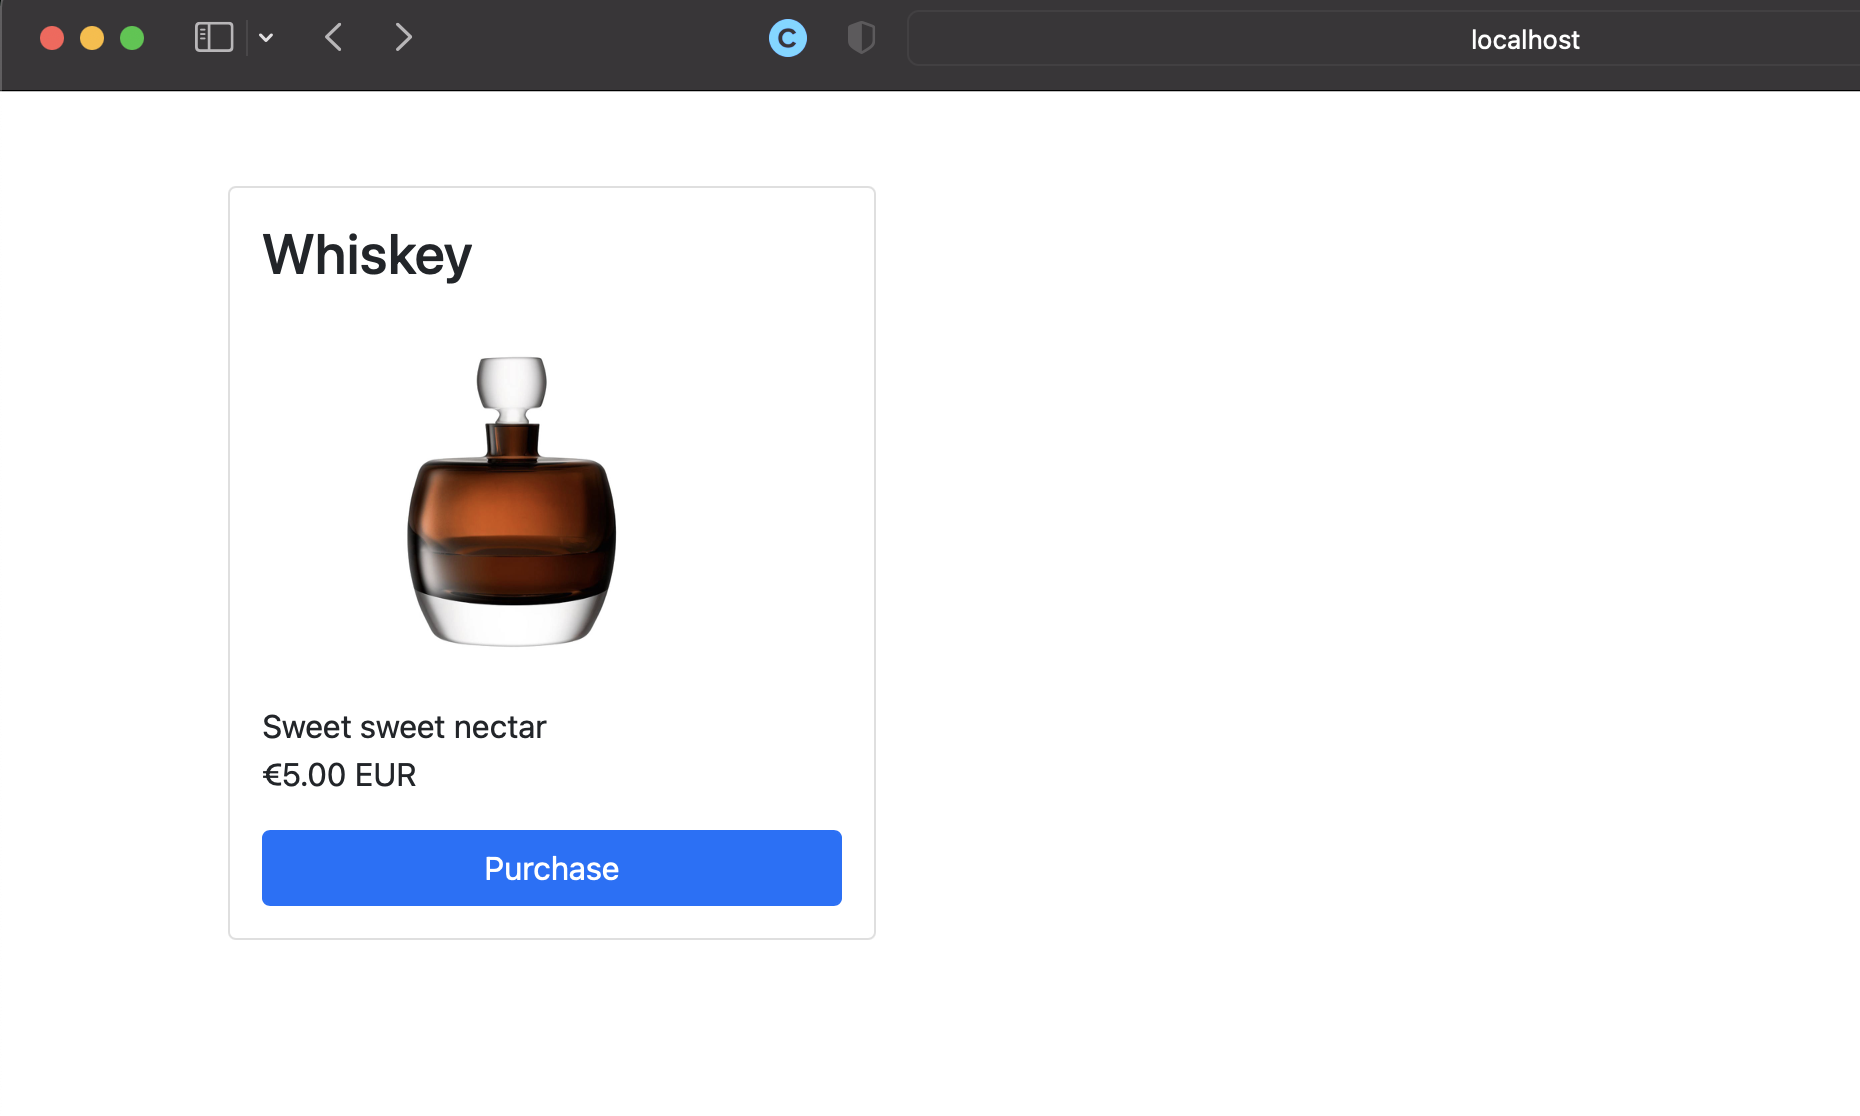
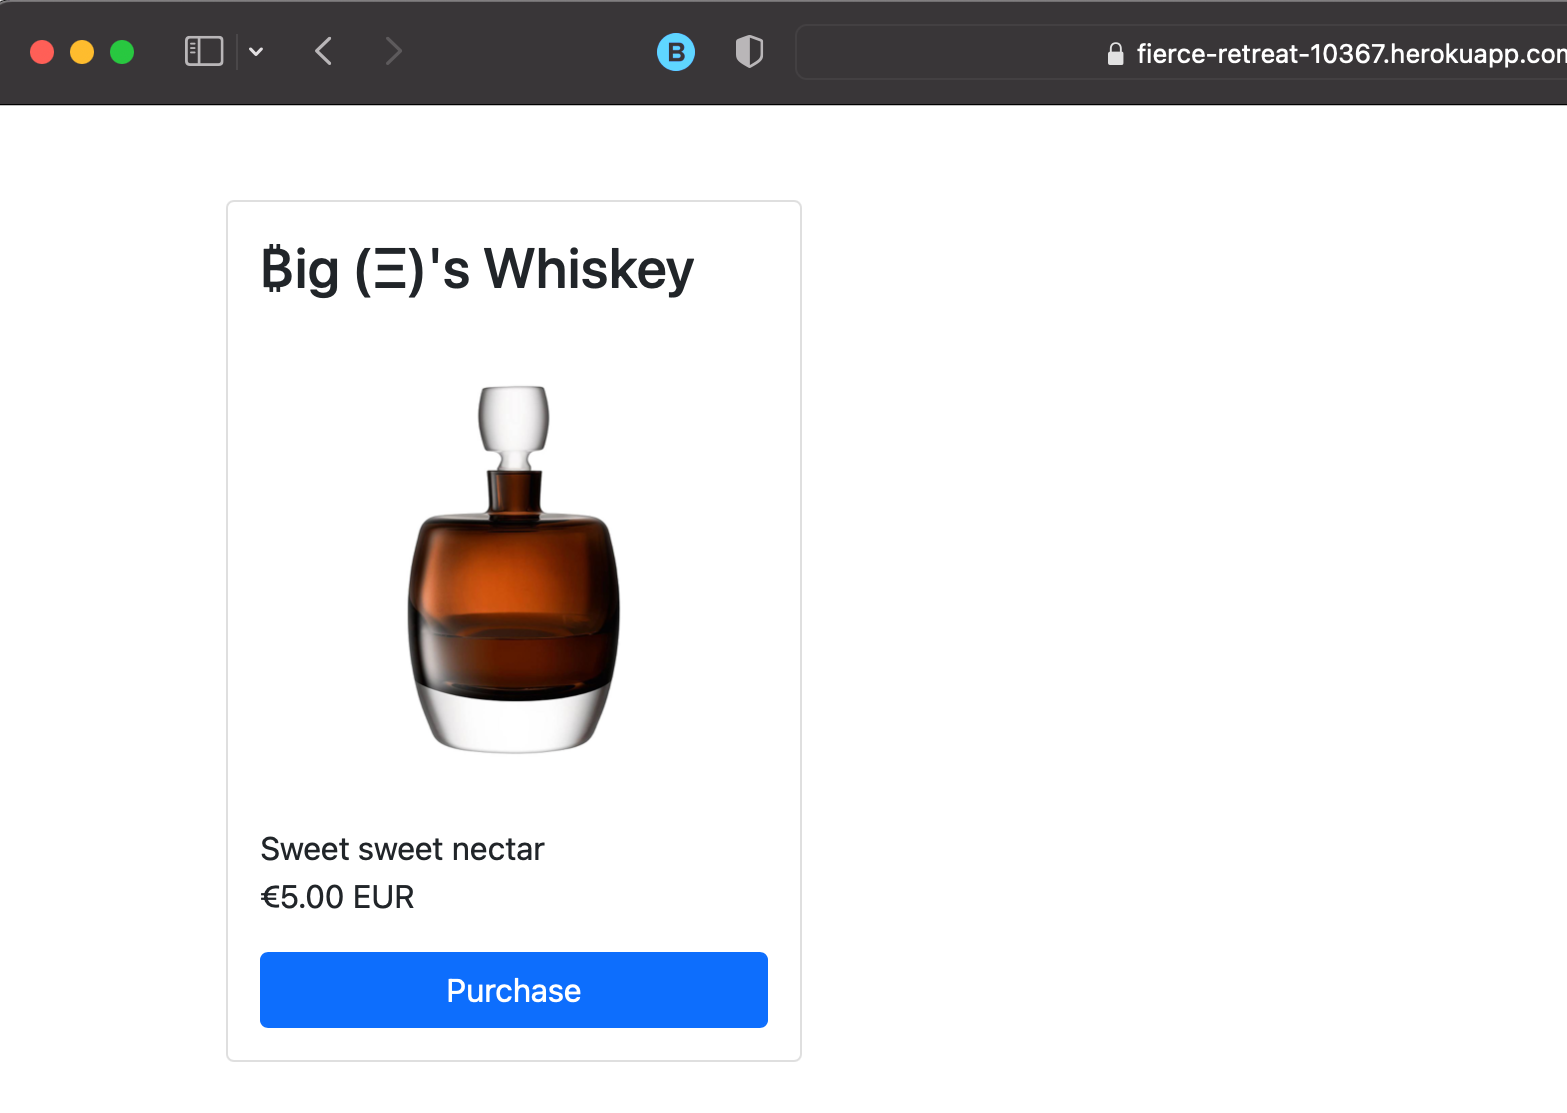
added: code review (formating and imports)

diff --git a/app/core/settings.py b/app/core/settings.py
@@ -10,11 +10,11 @@ For the full list of settings and their values, see
 https://docs.djangoproject.com/en/3.2/ref/settings/
 """
 import os
-# import environ
-# from pathlib import Path
 
-COINBASE_COMMERCE_API_KEY = os.environ.get('COINBASE_API_KEY')
-COINBASE_COMMERCE_WEBHOOK_SHARED_SECRET = os.environ.get('COINBASE_COMMERCE_WEBHOOK_SHARED_SECRET')
+COINBASE_COMMERCE_API_KEY = os.environ.get("COINBASE_API_KEY")
+COINBASE_COMMERCE_WEBHOOK_SHARED_SECRET = os.environ.get(
+    "COINBASE_COMMERCE_WEBHOOK_SHARED_SECRET"
+)
 
 
 # Build paths inside the project like this: BASE_DIR / 'subdir'.
@@ -25,24 +25,24 @@ BASE_DIR = os.path.dirname(os.path.dirname(os.path.abspath(__file__)))
 # See https://docs.djangoproject.com/en/3.2/howto/deployment/checklist/
 
 # SECURITY WARNING: don't run with debug turned on in production!
-DEBUG = bool(os.environ.get('DEBUG', default=False))
-SECRET_KEY = os.environ.get('DJANGO_SECRET_KEY', default='django-insecure-$lko+#jpt#ehi5')
-ALLOWED_HOSTS = ['localhost', '127.0.0.1', '[::1]', '.herokuapp.com']
+DEBUG = bool(os.environ.get("DEBUG", default=False))
+SECRET_KEY = os.environ.get(
+    "DJANGO_SECRET_KEY", default="django-insecure-$lko+#jpt#ehi5"
+)
+ALLOWED_HOSTS = ["localhost", "127.0.0.1", "[::1]", ".herokuapp.com"]
 
-# if DEBUG == False:
-#     SECURE_HSTS_SECONDS = 3600
-#     SECURE_CONTENT_TYPE_NOSNIFF = True
-#     SECURE_BROWSER_XSS_FILTER = True
-#     SECURE_SSL_REDIRECT = True
-#     SESSION_COOKIE_SECURE = True
-#     CSRF_COOKIE_SECURE = True
-#     X_FRAME_OPTIONS = "DENY"
-#     SECURE_HSTS_INCLUDE_SUBDOMAINS = True
-#     SECURE_HSTS_PRELOAD = True
-#     SECURE_PROXY_SSL_HEADER = ("HTTP_X_FORWARDED_PROTO", "https")
-#     SECURE_REFERRER_POLICY = "same-origin"
-
-
+if DEBUG is False:
+    SECURE_HSTS_SECONDS = 3600
+    SECURE_CONTENT_TYPE_NOSNIFF = True
+    SECURE_BROWSER_XSS_FILTER = True
+    SECURE_SSL_REDIRECT = True
+    SESSION_COOKIE_SECURE = True
+    CSRF_COOKIE_SECURE = True
+    X_FRAME_OPTIONS = "DENY"
+    SECURE_HSTS_INCLUDE_SUBDOMAINS = True
+    SECURE_HSTS_PRELOAD = True
+    SECURE_PROXY_SSL_HEADER = ("HTTP_X_FORWARDED_PROTO", "https")
+    SECURE_REFERRER_POLICY = "same-origin"
 
 # Application definition
 
@@ -92,9 +92,9 @@ WSGI_APPLICATION = "core.wsgi.application"
 # https://docs.djangoproject.com/en/3.2/ref/settings/#databases
 
 DATABASES = {
-    'default': {
-        'ENGINE': 'django.db.backends.sqlite3',
-        "NAME": os.path.join(BASE_DIR, "db.sqlite3")
+    "default": {
+        "ENGINE": "django.db.backends.sqlite3",
+        "NAME": os.path.join(BASE_DIR, "db.sqlite3"),
     }
 }
 
@@ -106,9 +106,9 @@ AUTH_PASSWORD_VALIDATORS = [
     {
         "NAME": "django.contrib.auth.password_validation.UserAttributeSimilarityValidator",
     },
-    {"NAME": "django.contrib.auth.password_validation.MinimumLengthValidator",},
-    {"NAME": "django.contrib.auth.password_validation.CommonPasswordValidator",},
-    {"NAME": "django.contrib.auth.password_validation.NumericPasswordValidator",},
+    {"NAME": "django.contrib.auth.password_validation.MinimumLengthValidator", },
+    {"NAME": "django.contrib.auth.password_validation.CommonPasswordValidator", },
+    {"NAME": "django.contrib.auth.password_validation.NumericPasswordValidator", },
 ]
 
 
@@ -133,9 +133,7 @@ STATIC_URL = "/static/"
 STATICFILES_STORAGE = "whitenoise.storage.CompressedStaticFilesStorage"
 
 # Extra places for collectstatic to find static files.
-STATICFILES_DIRS = (
-    os.path.join(BASE_DIR, 'static'),
-)
+STATICFILES_DIRS = (os.path.join(BASE_DIR, "static"),)
 
 # Default primary key field type
 # https://docs.djangoproject.com/en/3.2/ref/settings/#default-auto-field

diff --git a/app/payments/views.py b/app/payments/views.py
@@ -1,18 +1,19 @@
 import logging
 
 from coinbase_commerce.client import Client
-from coinbase_commerce.error import SignatureVerificationError, WebhookInvalidPayload
+from coinbase_commerce.error import (SignatureVerificationError,
+                                     WebhookInvalidPayload)
 from coinbase_commerce.webhook import Webhook
-from core import settings
 from django.http import HttpResponse, JsonResponse
-from django.shortcuts import render, redirect
+from django.shortcuts import redirect, render
 from django.views.decorators.csrf import csrf_exempt
 from django.views.decorators.http import require_http_methods
+
+from core import settings
 
 
 # Create your views here.
 def home_view(request):
-    logger = logging.getLogger(__name__)
 
     client = Client(api_key=settings.COINBASE_COMMERCE_API_KEY)
     domain_url = "http://localhost:8000/"
@@ -39,7 +40,7 @@ def home_view(request):
     }
     charge = client.charge.create(**product)
 
-    return render(request, "home.html", {"charge": charge,})
+    return render(request, "home.html", {"charge": charge, })
 
 
 def success_view(request):
@@ -73,10 +74,7 @@ def coinbase_webhook(request):
             customer_username = event["data"]["metadata"]["customer_username"]
 
     except (SignatureVerificationError, WebhookInvalidPayload) as e:
-        logger.info(
-            "Coinbase Webhook\n"
-            f"Error event: {e}"
-        )
+        logger.info("Coinbase Webhook\n" f"Error event: {e}")
         return HttpResponse("Error", status=400)
 
     logger.info(f"Received event: id={event.id}, type={event.type}")
@@ -92,10 +90,6 @@ def ping(request):
     else:
         domain_url = f"https://{hostname}/"
 
-    data = {
-        'ping': 'pong!',
-        'hostname': domain_url,
-        'request_type': request_type
-    }
+    data = {"ping": "pong!", "hostname": domain_url, "request_type": request_type}
 
     return JsonResponse(data)

diff --git a/app/core/wsgi.py b/app/core/wsgi.py
@@ -8,11 +8,10 @@ https://docs.djangoproject.com/en/3.2/howto/deployment/wsgi/
 """
 
 import os
-from whitenoise import WhiteNoise
 
 from django.core.wsgi import get_wsgi_application
+from whitenoise import WhiteNoise
 
 os.environ.setdefault("DJANGO_SETTINGS_MODULE", "core.settings")
 
 application = get_wsgi_application()
-# application = WhiteNoise(application, root='../app/static/')

diff --git a/app/payments/urls.py b/app/payments/urls.py
@@ -7,5 +7,5 @@ urlpatterns = [
     path("success/", views.success_view, name="payments-success"),
     path("cancel/", views.cancel_view, name="payments-cancel"),
     path("webhook/", views.coinbase_webhook),
-    path('ping/', views.ping, name="ping"),
+    path("ping/", views.ping, name="ping"),
 ]

diff --git a/app/test/test-coinbase-auth.py b/app/test/test-coinbase-auth.py
@@ -1,5 +1,6 @@
 from coinbase_commerce.client import Client
 from config import COINBASE_COMMERCE_API_KEY
+
 from core import settings
 
 client = Client(api_key=settings.COINBASE_COMMERCE_API_KEY)

diff --git a/README.md b/README.md
@@ -29,3 +29,13 @@ Feel free to switch this to: [Pipenv](https://pipenv.pypa.io/en/latest/) or perh
 ### Local Environment - Django, Home Page & Coinbase
 
 Please refer to the project [Wiki page](https://github.com/endk17/cryptoexchange/wiki) for further details
+
+
+## Hosting
+
+This is a live POC project this resides on [Heroku](https://www.heroku.com/)
+
+URL: https://fierce-retreat-10367.herokuapp.com
+
+
+*** Note: If any issues or errors are noted please log a GitHub issue for further review and discussion *** 
